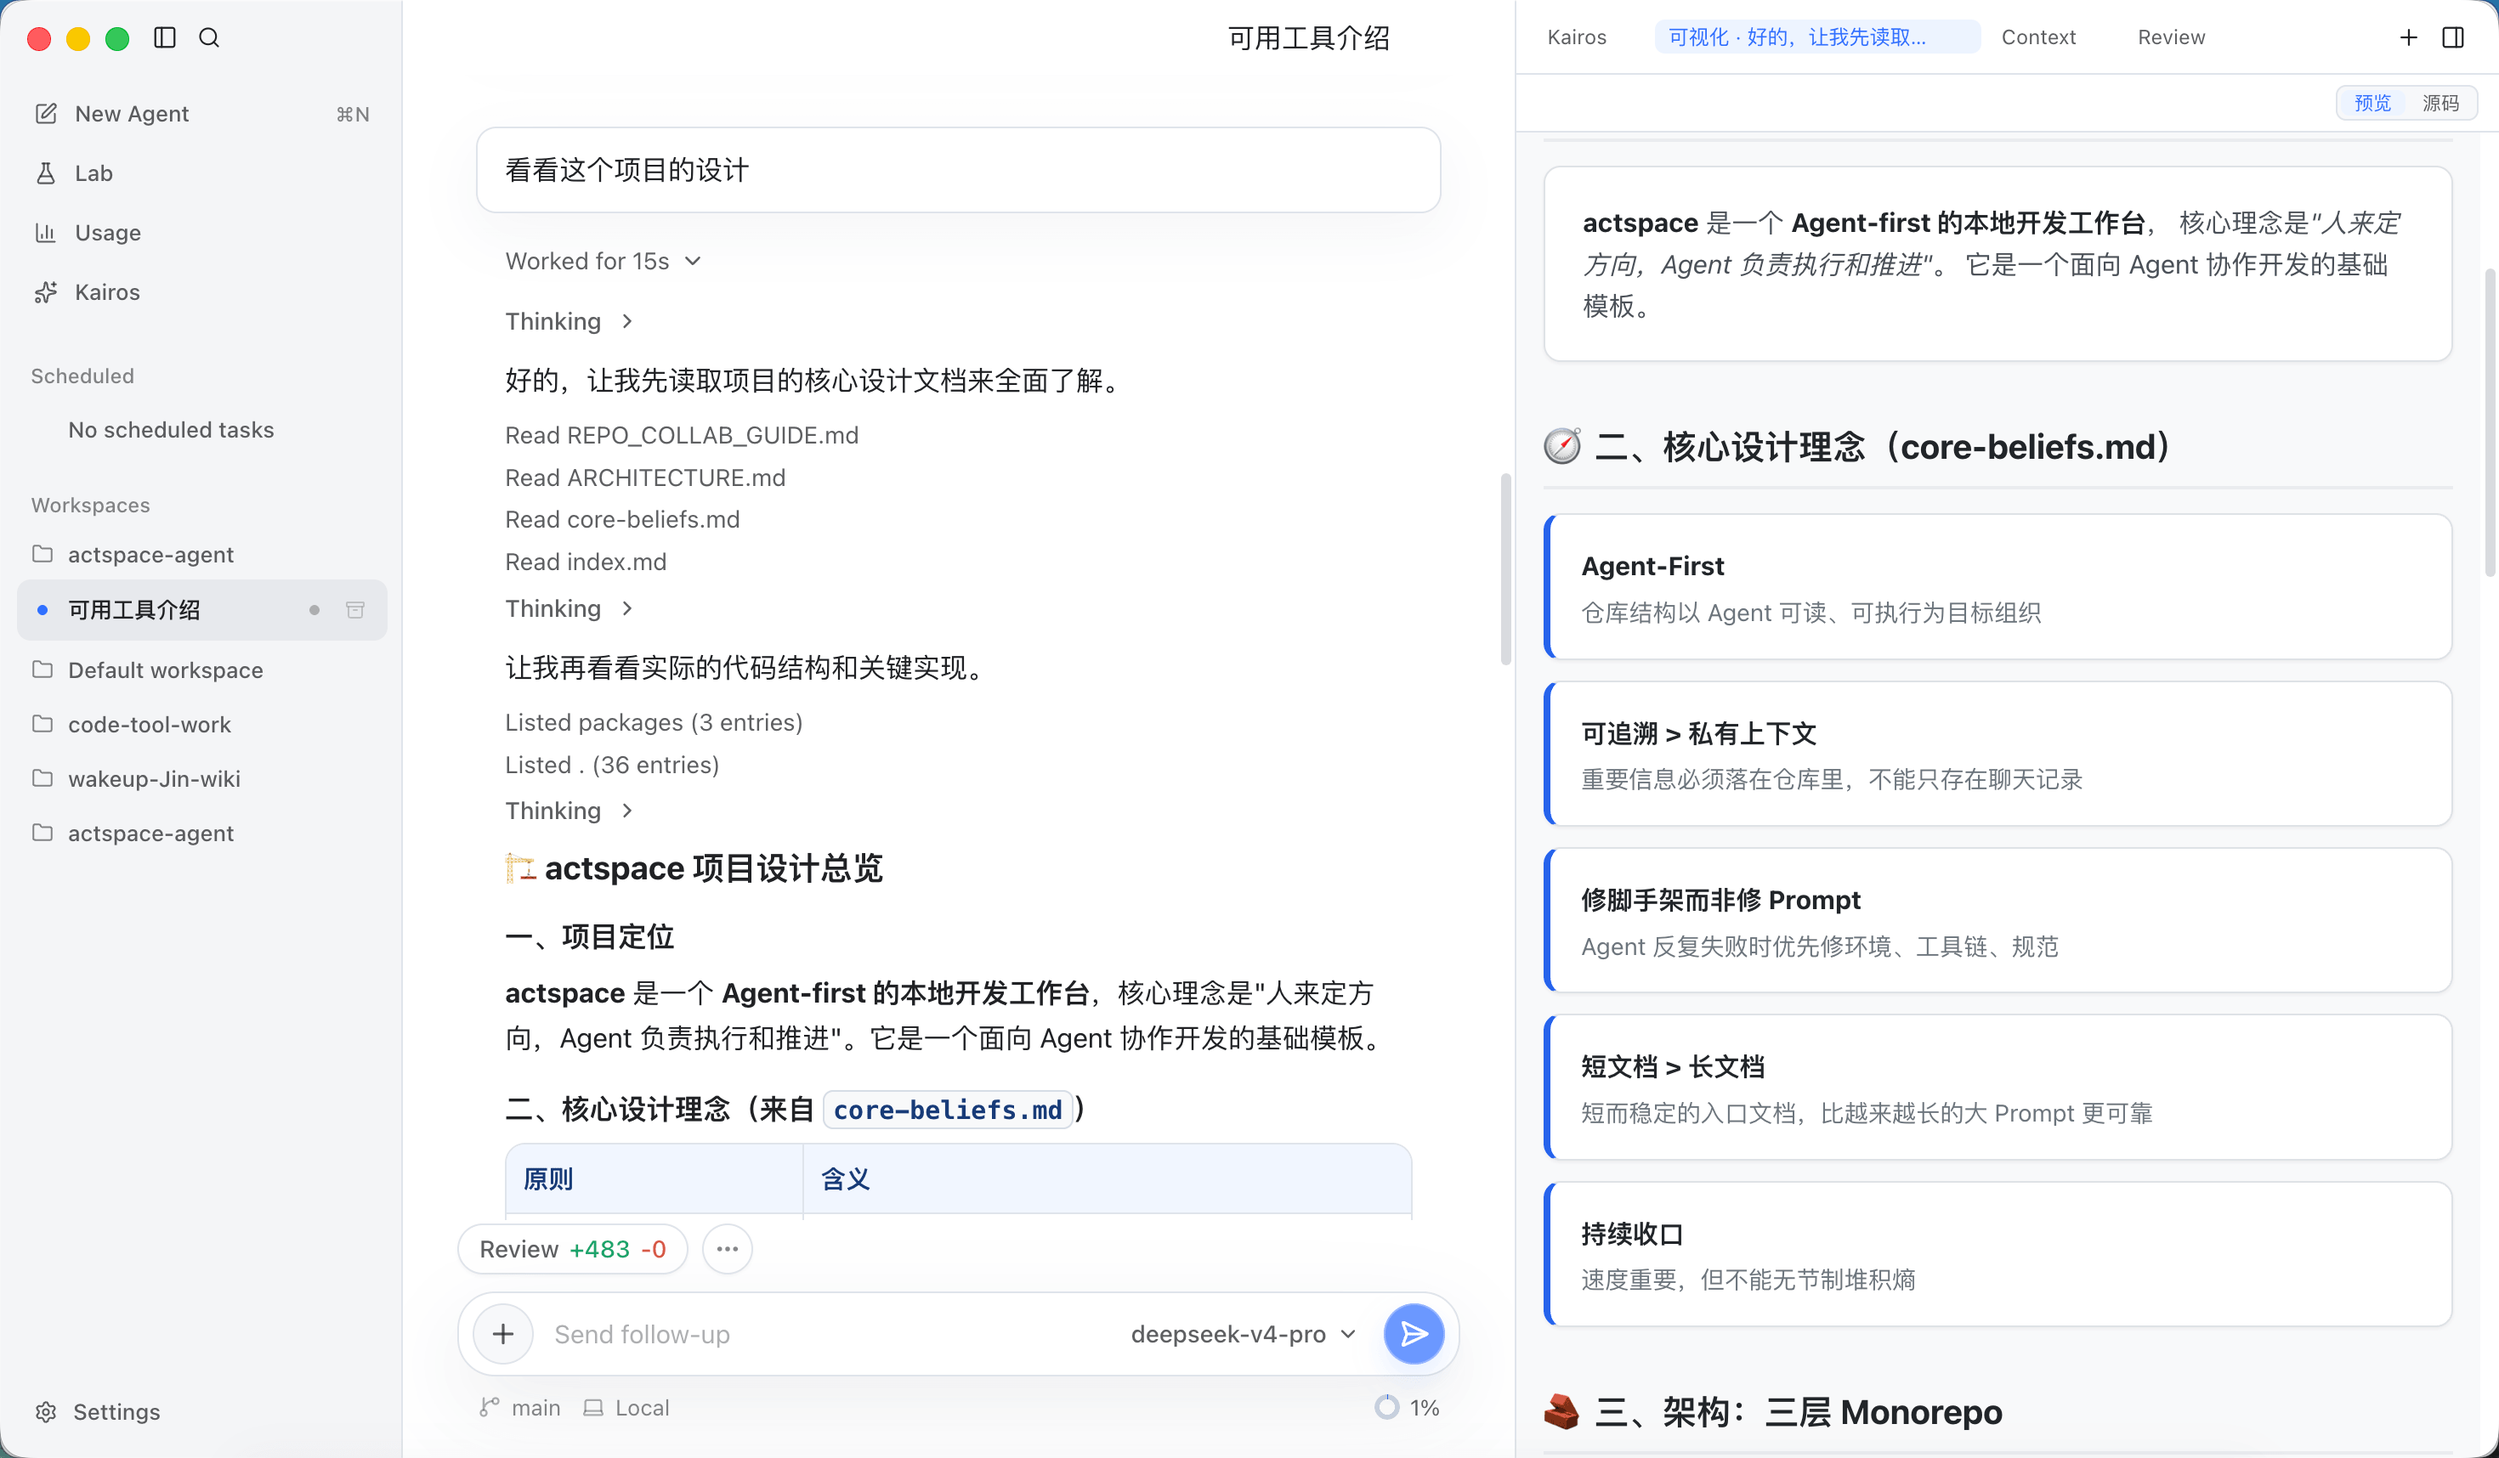
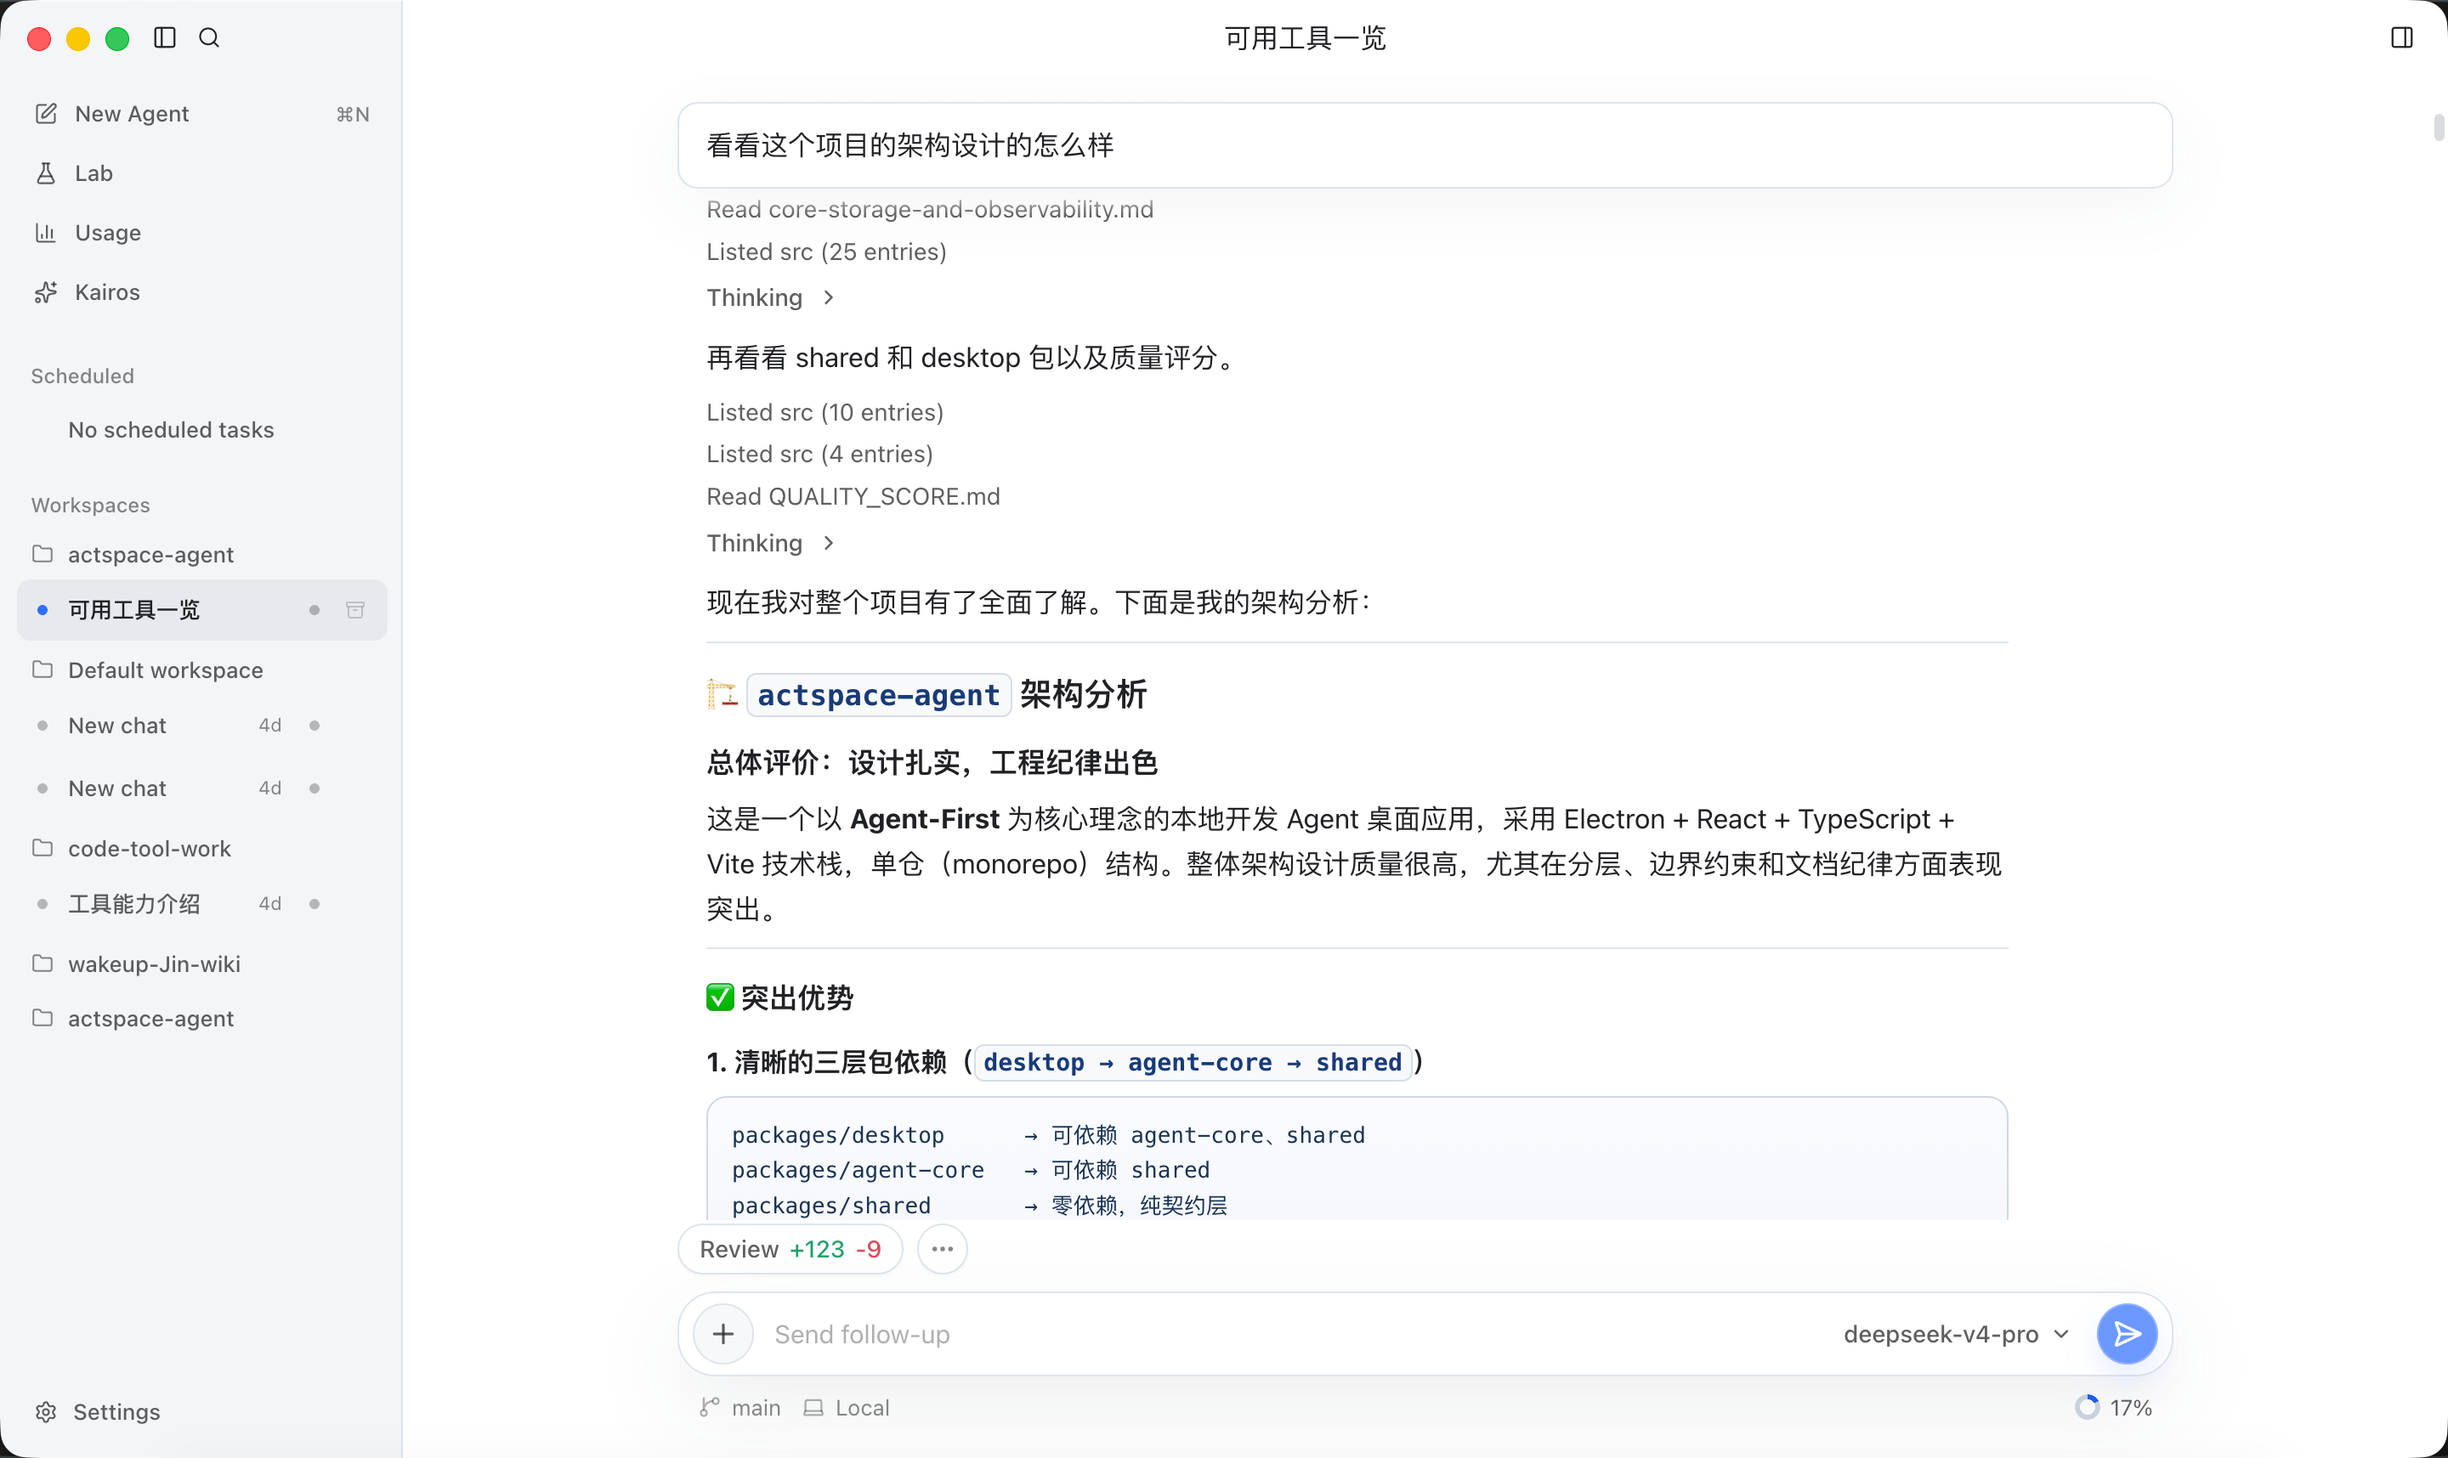
fix:修复glob的返回信息，调整home截图

diff --git a/packages/agent-core/src/tools/tools/glob/executor.ts b/packages/agent-core/src/tools/tools/glob/executor.ts
@@ -9,7 +9,8 @@ const MAX_RESULTS = 200;
 
 interface FileEntry {
   path: string;
-  mtime: number;
+  sizeBytes?: number;
+  mtimeMs?: number;
 }
 
 export const globExecutor: ToolExecutorFn = async (
@@ -52,10 +53,10 @@ export const globExecutor: ToolExecutorFn = async (
     return { success: true, data: `No files found matching "${pattern}"` };
   }
 
-  entries.sort((a, b) => b.mtime - a.mtime);
+  entries.sort((a, b) => (b.mtimeMs ?? 0) - (a.mtimeMs ?? 0));
   const limited = entries.slice(0, MAX_RESULTS);
 
-  const output = limited.map((e) => e.path).join("\n");
+  const output = limited.map(formatFileEntry).join("\n");
   const header = `Found ${entries.length} file${entries.length > 1 ? "s" : ""}${entries.length > MAX_RESULTS ? ` (showing first ${MAX_RESULTS})` : ""} matching "${pattern}":\n\n`;
   const suffix = result.truncated ? "\n\n[Output truncated by ripgrep runner]" : "";
 
@@ -115,13 +116,46 @@ async function collectFileEntries(stdout: string, searchRoot: string, workspaceR
 
     try {
       const fileStat = await stat(absolutePath);
-      entries.push({ path: displayPath, mtime: fileStat.mtimeMs });
+      entries.push({ path: displayPath, sizeBytes: fileStat.size, mtimeMs: fileStat.mtimeMs });
     } catch {
-      entries.push({ path: displayPath, mtime: 0 });
+      entries.push({ path: displayPath });
     }
   }
 
   return entries;
+}
+
+function formatFileEntry(entry: FileEntry): string {
+  return `${entry.path} | size: ${formatFileSize(entry.sizeBytes)} | modified: ${formatModifiedTime(entry.mtimeMs)}`;
+}
+
+function formatFileSize(sizeBytes: number | undefined): string {
+  if (typeof sizeBytes !== "number" || !Number.isFinite(sizeBytes) || sizeBytes < 0) {
+    return "unknown";
+  }
+
+  if (sizeBytes < 1024) {
+    return `${sizeBytes} B`;
+  }
+
+  const units = ["KB", "MB", "GB", "TB"];
+  let value = sizeBytes / 1024;
+  let unitIndex = 0;
+
+  while (value >= 1024 && unitIndex < units.length - 1) {
+    value /= 1024;
+    unitIndex += 1;
+  }
+
+  return `${value.toFixed(value >= 10 ? 0 : 1)} ${units[unitIndex]}`;
+}
+
+function formatModifiedTime(mtimeMs: number | undefined): string {
+  if (typeof mtimeMs !== "number" || !Number.isFinite(mtimeMs) || mtimeMs <= 0) {
+    return "unknown";
+  }
+
+  return new Date(mtimeMs).toISOString();
 }
 
 function resolveRipgrepFilePath(path: string, searchRoot: string): string {

diff --git a/packages/agent-core/src/tools/test/search-tools.test.ts b/packages/agent-core/src/tools/test/search-tools.test.ts
@@ -1,5 +1,5 @@
 import { describe, expect, it } from "vitest";
-import { mkdtemp, mkdir, realpath, writeFile } from "node:fs/promises";
+import { mkdtemp, mkdir, realpath, utimes, writeFile } from "node:fs/promises";
 import { tmpdir } from "node:os";
 import { join } from "node:path";
 import { execFileSync } from "node:child_process";
@@ -54,10 +54,17 @@ describe("grepExecutor", () => {
 });
 
 describe("globExecutor", () => {
-  it("matches pattern relative to the provided path", async () => {
+  it("returns paths with size and modified time, sorted newest first", async () => {
     if (!hasRipgrep()) return;
 
     const workspace = await createWorkspace();
+    const olderFile = join(workspace, "packages/agent-core/src/tools/alpha.ts");
+    const newerFile = join(workspace, "packages/agent-core/src/tools/beta.test.ts");
+    const older = new Date("2024-01-01T00:00:00.000Z");
+    const newer = new Date("2025-01-01T00:00:00.000Z");
+    await utimes(olderFile, older, older);
+    await utimes(newerFile, newer, newer);
+
     const result = await globExecutor({
       pattern: "src/**/*.ts",
       path: "packages/agent-core",
@@ -67,6 +74,11 @@ describe("globExecutor", () => {
     const output = String(result.data);
     expect(output).toContain("packages/agent-core/src/tools/alpha.ts");
     expect(output).toContain("packages/agent-core/src/tools/beta.test.ts");
+    expect(output).toContain("packages/agent-core/src/tools/alpha.ts | size: 31 B | modified: 2024-01-01T00:00:00.000Z");
+    expect(output).toContain("packages/agent-core/src/tools/beta.test.ts | size: 30 B | modified: 2025-01-01T00:00:00.000Z");
+    expect(output.indexOf("packages/agent-core/src/tools/beta.test.ts")).toBeLessThan(
+      output.indexOf("packages/agent-core/src/tools/alpha.ts"),
+    );
     expect(output).not.toContain("packages/desktop/src/view.tsx");
   });
 
@@ -81,5 +93,6 @@ describe("globExecutor", () => {
 
     expect(result.success).toBe(true);
     expect(String(result.data)).toContain("packages/desktop/src/view.tsx");
+    expect(String(result.data)).toMatch(/packages\/desktop\/src\/view\.tsx \| size: \d+ B \| modified: \d{4}-\d{2}-\d{2}T/);
   });
 });

diff --git a/packages/agent-core/src/tools/tools/glob/definition.ts b/packages/agent-core/src/tools/tools/glob/definition.ts
@@ -4,7 +4,7 @@ export const globDefinition: ToolDefinitionSpec = {
   name: "glob",
   description:
     "Find files by name pattern in the workspace. " +
-    "Returns matching file paths sorted by modification time (most recent first). " +
+    "Returns matching file paths with file size and modification timestamp, sorted by modification time (most recent first). " +
     "Use for locating files by extension, name, or directory structure. " +
     "Do NOT use this for searching file contents — use grep instead.",
   parameters: {

diff --git a/packages/agent-core/src/context/compression/tool-summary-prompts.ts b/packages/agent-core/src/context/compression/tool-summary-prompts.ts
@@ -29,7 +29,7 @@ const GREP_PROMPT =
 
 const GLOB_PROMPT =
   `${SHARED_RULE}\n` +
-  "这是文件名检索类工具（glob）的输出。必须逐字保留文件路径与文件总数，" +
+  "这是文件名检索类工具（glob）的输出。必须逐字保留文件路径、文件大小、修改时间与文件总数，" +
   "可以折叠同目录下的大量同类文件为 `<dir>/ 下 N 个文件`，但保留有代表性的具体路径。";
 
 const DIRECTORY_PROMPT =

diff --git a/docs/learnings/2026-06/tool-metadata-must-survive-compression.md b/docs/learnings/2026-06/tool-metadata-must-survive-compression.md
@@ -1,0 +1,34 @@
+# 工具元数据要穿过压缩链路
+
+来源：`docs/histories/2026-06/20260614-1245-glob-size-mtime-output.md`
+
+## 核心结论
+
+给模型看的工具输出不只是一段展示文本，它也是上下文工程的一部分。像文件大小、修改时间这类元数据，如果是为了帮助模型判断复杂度和相关性，就必须同时进入正常输出格式和压缩摘要规则。
+
+## 为什么
+
+Agent 工具通常有两条输出路径：
+
+- 小输出：原样回填给模型。
+- 大输出：先经过摘要器或截断器，再回填给模型。
+
+如果只在 executor 里追加元数据，却没有告诉摘要器“这些字段必须保留”，长输出一旦触发压缩，模型拿到的可能又退回成普通路径列表。结果就是工具在小仓库里看起来变聪明，在大仓库或大结果集里突然丢掉关键信号。
+
+## 判断方法
+
+新增工具输出字段时，顺手检查三处：
+
+- executor 或 renderer：原始输出是否真的包含新字段。
+- truncator / summarizer prompt：压缩后是否要求保留新字段。
+- 测试：是否覆盖字段存在，以及字段参与排序、筛选或决策的行为。
+
+## 常见陷阱
+
+不要把“排序使用了某字段”等同于“模型看到了某字段”。排序只能表达相对顺序，不能表达信号强度。例如 `glob` 按 mtime 倒序排列能暗示最近修改，但模型不知道两个文件差 1 分钟还是 3 个月。
+
+## 自检
+
+- 这个字段是 UI 装饰，还是模型决策信号？
+- 大输出触发压缩后，这个字段还会保留吗？
+- 测试有没有锁住“字段存在”和“字段语义”两件事？

diff --git a/docs/histories/2026-06/20260614-1245-glob-size-mtime-output.md b/docs/histories/2026-06/20260614-1245-glob-size-mtime-output.md
@@ -1,0 +1,33 @@
+## [2026-06-14 12:45] | Task: Enrich glob output metadata
+
+### Execution Context
+
+- **Agent ID**: `Codex`
+- **Base Model**: `GPT-5`
+- **Runtime**: `Codex desktop`
+
+### User Query
+
+> 用户希望 `glob` 工具返回给模型的信息中包含文件大小和修改时间，让模型能利用文件复杂度与最近修改相关性信号。
+
+### Changes Overview
+
+**Scope:** `packages/agent-core`
+
+**Key Actions:**
+
+- **[Glob output metadata]**: `glob` 结果每行在路径后附加 `size` 和 `modified`，同时继续按修改时间倒序排列。
+- **[Tool guidance]**: 更新 `glob` 工具描述和 glob 输出压缩 prompt，避免长输出摘要时丢掉 size/mtime。
+- **[Regression tests]**: 补充 `globExecutor` 测试，覆盖元数据输出与最近修改优先排序。
+
+### Design Intent (Why)
+
+文件大小能给模型提供复杂度背景，修改时间能表达“最近改过、可能更相关”的隐含信号。把这些信息直接返回给模型，比只通过排序间接表达更清晰，同时保持路径在行首，方便模型继续调用 `read_file`。
+
+### Files Modified
+
+- `packages/agent-core/src/tools/tools/glob/executor.ts`
+- `packages/agent-core/src/tools/tools/glob/definition.ts`
+- `packages/agent-core/src/context/compression/tool-summary-prompts.ts`
+- `packages/agent-core/src/tools/test/search-tools.test.ts`
+- `docs/histories/2026-06/20260614-1245-glob-size-mtime-output.md`
